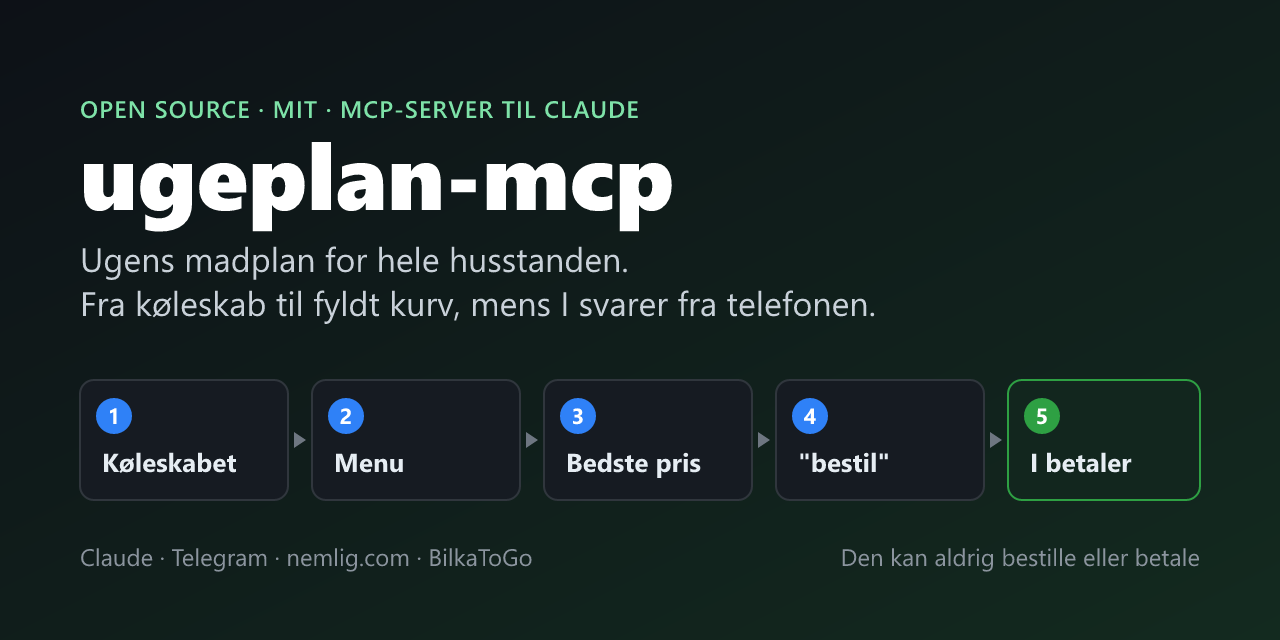
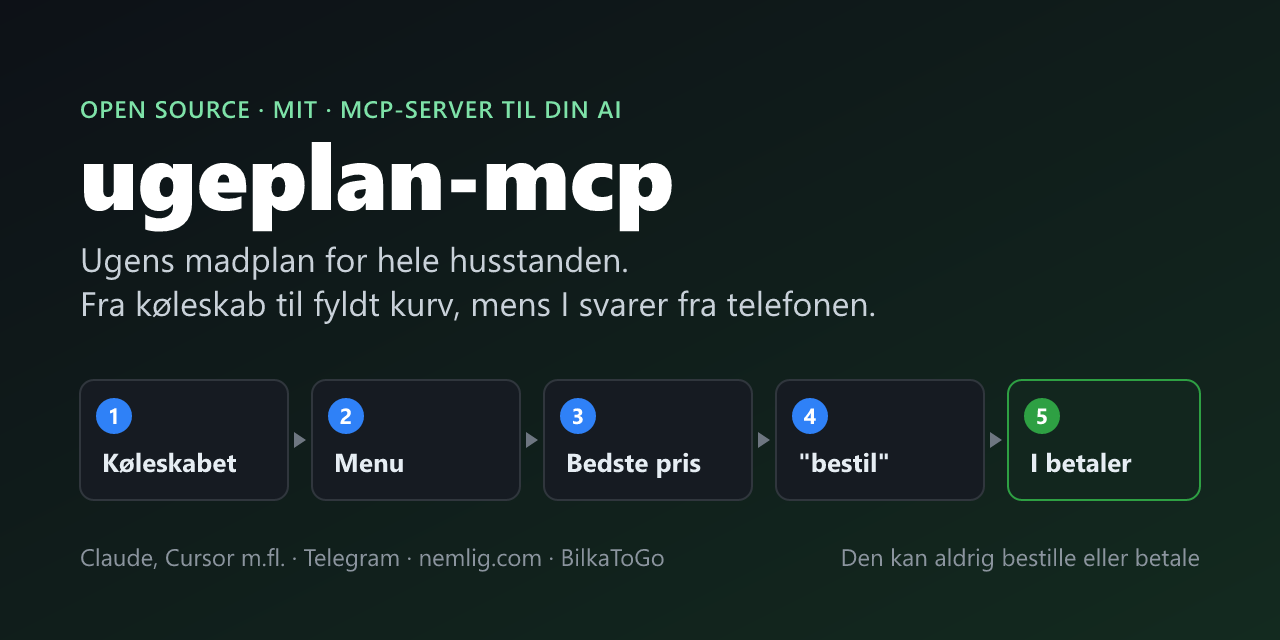
ugeplan-mcp 0.32.0: åben for alle AI-apps med MCP (#9)
* Åben for alle AI-apps med MCP, ikke kun Claude

* ugeplan-mcp 0.32.0

---------

Changed region(s): [[0.125, 0.8438, 0.5, 0.9062], [0.4062, 0.1562, 0.5, 0.1875]]

diff --git a/src/handle_mcp/cli.py b/src/handle_mcp/cli.py
@@ -1,6 +1,6 @@
 """Kommandoer i terminalen:
 
-    ugeplan-mcp opsaet          guide til første opsætning: butikker, Telegram og Claude Desktop
+    ugeplan-mcp opsaet          guide til første opsætning: butikker, Telegram og din AI-app
     ugeplan-mcp login nemlig   spørger om email og kode, tjekker dem hos butikken og gemmer dem
     ugeplan-mcp logout nemlig   sletter det gemte login
     ugeplan-mcp status          viser hvilke butikker der har et gemt login (aldrig selve koden)
@@ -10,7 +10,7 @@
     ugeplan-mcp telegram-frakobl kobler alle telefoner fra
     ugeplan-mcp http-noegle     laver en ny adgangsnøgle til HTTP-tilstand (vises kun én gang)
     ugeplan-mcp http [host] [port]
-                               kører serveren over HTTP i stedet for til Claude Desktop.
+                               kører serveren over HTTP i stedet for stdio.
                                Standard: 127.0.0.1 8765 (kun denne maskine)
 """
 
@@ -59,7 +59,7 @@ async def _telegram_opsaet(fra_udklipsholder: bool = False) -> int:
         print(f"Det virkede ikke, og intet er gemt: {fejl}")
         return 1
     kode = telegram.ny_parringskode()
-    print(f"\nBotten {navn} er gemt i Windows' nøglering.")
+    print(f"\nBotten {navn} er gemt i styresystemets nøglering.")
     print(f"3. Start lytteren: ugeplan-mcp telegram")
     print(f"4. Søg {navn} frem i Telegram på begge telefoner og send koden {kode} (gyldig i 30 minutter).")
     return 0
@@ -146,8 +146,8 @@ def _ja(spoergsmaal: str) -> bool:
         return False
 
 
-def claude_config() -> dict:
-    """Det, der skal stå i Claude Desktops claude_desktop_config.json."""
+def server_kommando() -> tuple[str, list[str]]:
+    """Kommandoen, en AI-app skal starte serveren med (MCP over stdio). Den samme for alle apps."""
     import shutil
     from importlib.metadata import PackageNotFoundError, version
 
@@ -156,19 +156,67 @@ def claude_config() -> dict:
     except PackageNotFoundError:
         v = None
     kilde = "git+https://github.com/JuliusTorpLarsenPrivat/ugeplan-mcp" + (f"@v{v}" if v else "")
-    uvx = shutil.which("uvx") or "uvx"
-    return {"mcpServers": {"ugeplan": {"command": uvx, "args": ["--from", kilde, "ugeplan-mcp"]}}}
+    return shutil.which("uvx") or "uvx", ["--from", kilde, "ugeplan-mcp"]
+
+
+def claude_config() -> dict:
+    """Det, der skal stå i Claude Desktops claude_desktop_config.json (samme form som Cursor m.fl.)."""
+    cmd, args = server_kommando()
+    return {"mcpServers": {"ugeplan": {"command": cmd, "args": args}}}
+
+
+# Serveren er almindelig MCP og er ikke bundet til én AI. Julius: "det skal være åbent".
+# Hver app har sin egen måde at få den ind på; teksten er den samme kommando i forskellig form.
+KLIENTER = {
+    "1": "Claude Desktop",
+    "2": "Claude Code",
+    "3": "Cursor",
+    "4": "VS Code (GitHub Copilot)",
+    "5": "En anden app med MCP",
+}
+
+
+def klient_vejledning(valg: str) -> str:
+    """Hvordan serveren sættes ind i den valgte AI-app."""
+    import json
+    import os
+    import shlex
+
+    cmd, args = server_kommando()
+    standard = json.dumps(claude_config(), indent=2, ensure_ascii=False)
+    if valg == "1":
+        sti = os.path.join(os.environ.get("APPDATA", "~"), "Claude", "claude_desktop_config.json")
+        return (
+            "I Claude Desktop: Settings > Developer > Edit Config. Læg dette ind under \"mcpServers\"\n"
+            f"(filen ligger normalt i {sti}):\n\n{standard}\n\n"
+            "Genstart Claude Desktop helt (også ikonet i proceslinjen)."
+        )
+    if valg == "2":
+        linje = "claude mcp add --scope user ugeplan -- " + " ".join(shlex.quote(a) for a in [cmd, *args])
+        return f"Kør i en terminal:\n\n  {linje}\n\nStart så en ny Claude Code-session."
+    if valg == "3":
+        return f"Læg dette i ~/.cursor/mcp.json (eller Cursor Settings > MCP > Add):\n\n{standard}\n\nGenstart Cursor."
+    if valg == "4":
+        vs = json.dumps({"servers": {"ugeplan": {"type": "stdio", "command": cmd, "args": args}}}, indent=2, ensure_ascii=False)
+        return (
+            "I VS Code: Kommandopaletten > \"MCP: Open User Configuration\", og læg dette ind:\n\n"
+            f"{vs}\n\nBrug Copilot Chat i Agent-tilstand."
+        )
+    return (
+        "Appen skal kunne starte en lokal MCP-server (stdio). Brug denne kommando:\n\n"
+        f"  kommando:   {cmd}\n  argumenter: {' '.join(args)}\n\n"
+        "Mange apps vil have den i denne form:\n\n"
+        f"{standard}\n\n"
+        "Kan appen kun forbinde til en server over nettet, så se \"Over netværket\" i README."
+    )
 
 
 def _opsaet() -> int:
     """Første opsætning, ét trin ad gangen. Alt kan springes over og tages senere."""
-    import json
-    import os
-
     print("Velkommen til ugeplan-mcp. Tre korte trin, og alle kan springes over med Enter.\n")
 
     print("TRIN 1/3: BUTIKKER")
-    print("Med login kan Claude fylde kurven (du betaler altid selv i butikkens app).")
+    print("Med login kan AI-assistenten fylde kurven (du betaler altid selv i butikkens app).")
     print("Uden login virker nemligs priser og opskrifter stadig, men kurven kan ikke fyldes.")
     for butik in login.BUTIKKER:
         if login.har_login(butik):
@@ -181,18 +229,22 @@ def _opsaet() -> int:
 
     print("\nTRIN 2/3: TELEGRAM (valgfrit)")
     print("Så kan hele husstanden svare fra telefonen: hvad der er i køleskabet, rettelser og \"bestil\".")
-    print("Uden Telegram foregår det hele i chatten med Claude.")
+    print("Uden Telegram foregår det hele i chatten med AI-assistenten.")
     if _ja("  Skal I bruge Telegram?"):
         asyncio.run(_telegram_opsaet())
 
-    print("\nTRIN 3/3: CLAUDE DESKTOP")
-    sti = os.path.join(os.environ.get("APPDATA", "~"), "Claude", "claude_desktop_config.json")
-    print("I Claude Desktop: Settings > Developer > Edit Config. Læg dette ind under \"mcpServers\"")
-    print(f"(filen ligger normalt i {sti}):\n")
-    print(json.dumps(claude_config(), indent=2, ensure_ascii=False))
-    print("\nGenstart Claude Desktop helt (også ikonet i proceslinjen).")
+    print("\nTRIN 3/3: DIN AI-APP")
+    print("ugeplan-mcp er en MCP-server og virker med de AI-apps, der kan bruge MCP. Hvilken bruger du?")
+    for nr, navn in KLIENTER.items():
+        print(f"  {nr}) {navn}")
+    try:
+        valg = input("Vælg 1-5 [5]: ").strip() or "5"
+    except EOFError:
+        print()
+        valg = "5"
+    print("\n" + klient_vejledning(valg))
 
-    print("\nKLAR. Skriv \"lav madplan\" i Claude. Første gang stiller Claude et par korte spørgsmål om")
+    print("\nKLAR. Skriv \"lav madplan\" til AI-assistenten. Første gang stiller den et par korte spørgsmål om")
     print("jeres husstand: antal, budget, hvad I kan lide og ikke spiser, faste måltider og")
     print("bestemte varer. Det bliver gemt i jeres profil, kun på denne computer.")
     print("Kør `ugeplan-mcp opsaet` igen, når som helst, eller `ugeplan-mcp status` for at se, hvad der er sat op.")

diff --git a/src/handle_mcp/telegram.py b/src/handle_mcp/telegram.py
@@ -312,7 +312,7 @@ async def _videresend(fra_chat: str, navn: str, tekst: str) -> None:
 
 
 BESTIL_VENTER = "bestil-venter"  # læses af madplan.gem_fra_vaerktoej, når den rettede plan gemmes
-BESTIL_EFTER_RETTELSE = "Modtaget. Claude retter planen efter jeres besked og lægger den så i kurven."
+BESTIL_EFTER_RETTELSE = "Modtaget. Assistenten retter planen efter jeres besked og lægger den så i kurven."
 
 
 def _rettelse_efter(oprettet: str) -> bool:
@@ -327,7 +327,7 @@ def ikke_fyldt_tekst(fejl: str) -> str:
     """Til husstanden: hvorfor kurven ikke blev fyldt, uden værktøjets instrukser til Claude
     (fundet i uge 46: "kald igen med kurven_maa_have_andet=True" stod på en telefon i husstanden)."""
     grund = re.split(r"\s+(?:Spørg brugeren|Kald igen|kald igen)", fejl, maxsplit=1)[0].strip()
-    videre = "Claude spørger jer om det her." if claude_lytter() else "Skriv fortsæt i Claude-chatten, så klarer Claude det."
+    videre = "Assistenten spørger jer om det her." if claude_lytter() else IKKE_I_GANG_FORTSAET
     return f"Kurven blev IKKE fyldt: {grund}\n{videre}"
 
 
@@ -381,11 +381,12 @@ async def _godkendelse(chat_id: str, navn: str, tekst: str) -> bool:
 
 
 CLAUDE_LYTTER_SEK = 2 * 60  # Claude kalder værktøjer hvert minut, mens den arbejder (5 min var for længe: fundet i demoen)
-IKKE_LYTTER = "Modtaget. Claude er ikke i gang lige nu. Skal det videre nu, så skriv fortsæt i Claude-chatten."
+IKKE_LYTTER = "Modtaget. AI-assistenten er ikke i gang lige nu. Skal det videre nu, så skriv fortsæt i chatten med den."
+IKKE_I_GANG_FORTSAET = "Skriv fortsæt i chatten med AI-assistenten, så klarer den det."
 
 
-ERSTATNING_LYTTER = "Claude finder en erstatning og retter kurven. Vent med at betale."
-ERSTATNING_IKKE_LYTTER = "Skriv fortsæt i Claude-chatten, så finder Claude en erstatning. Vent med at betale."
+ERSTATNING_LYTTER = "Assistenten finder en erstatning og retter kurven. Vent med at betale."
+ERSTATNING_IKKE_LYTTER = "Skriv fortsæt i chatten med AI-assistenten, så finder den en erstatning. Vent med at betale."
 
 
 def claude_lytter() -> bool:

diff --git a/tests/test_opsaetning.py b/tests/test_opsaetning.py
@@ -118,3 +118,25 @@ def test_opsaet_kan_springes_helt_over(monkeypatch, capsys):
 def test_claude_config_peger_paa_repoet():
     k = cli.claude_config()["mcpServers"]["ugeplan"]
     assert k["args"][0] == "--from" and "ugeplan-mcp" in k["args"][1] and k["args"][2] == "ugeplan-mcp"
+
+
+def test_guiden_er_ikke_bundet_til_claude(monkeypatch, capsys):
+    """Julius: "vi dikterer ikke, at der SKAL bruges Claude". Alle apps får samme kommando."""
+    cmd, args = cli.server_kommando()
+    for valg in cli.KLIENTER:
+        tekst = cli.klient_vejledning(valg)
+        assert args[1] in tekst, valg  # samme kilde (git+…@vX) i alle apps
+    assert "claude mcp add" in cli.klient_vejledning("2")
+    assert '"servers"' in cli.klient_vejledning("4") and '"type": "stdio"' in cli.klient_vejledning("4")
+    assert "Over netværket" in cli.klient_vejledning("5")
+    monkeypatch.setattr("builtins.input", lambda *_: "3")
+    cli.kommando(["opsaet"])
+    ud = capsys.readouterr().out
+    assert "Cursor" in ud and "Claude Desktop helt" not in ud and "TRIN 3/3: DIN AI-APP" in ud
+
+
+def test_telegram_taler_ikke_om_claude():
+    from handle_mcp import telegram
+
+    for t in (telegram.IKKE_LYTTER, telegram.IKKE_I_GANG_FORTSAET, telegram.ERSTATNING_LYTTER, telegram.ERSTATNING_IKKE_LYTTER, telegram.BESTIL_EFTER_RETTELSE):
+        assert "Claude" not in t

diff --git a/tests/test_uge46.py b/tests/test_uge46.py
@@ -46,7 +46,7 @@ def test_ikke_fyldt_viser_ikke_vaerktoejets_instrukser(monkeypatch):
     tekst = telegram.ikke_fyldt_tekst(fejl)
     assert "Zinfandel" in tekst and "kurven_maa_have_andet" not in tekst and "Spørg brugeren" not in tekst
     monkeypatch.setattr(telegram, "claude_lytter", lambda: False)
-    assert "fortsæt i Claude-chatten" in telegram.ikke_fyldt_tekst(fejl)
+    assert "fortsæt i chatten med AI-assistenten" in telegram.ikke_fyldt_tekst(fejl)
 
 
 def test_rester_er_ikke_planens_start():

diff --git a/src/handle_mcp/__init__.py b/src/handle_mcp/__init__.py
@@ -1,3 +1,3 @@
 """ugeplan-mcp: madplan og dagligvarer fra nemlig.com og BilkaToGo som MCP-server. Du betaler altid selv."""
 
-__version__ = "0.31.0"
+__version__ = "0.32.0"

diff --git a/README.md b/README.md
@@ -1,6 +1,6 @@
 # ugeplan-mcp
 
-**Ugens madplan for hele husstanden, direkte på telefonen. Claude laver planen, I retter den i Telegram, og kurven bliver fyldt hos nemlig.com eller BilkaToGo. I betaler selv.**
+**Ugens madplan for hele husstanden, direkte på telefonen. Din AI-assistent laver planen, I retter den i Telegram, og kurven bliver fyldt hos nemlig.com eller BilkaToGo. I betaler selv.**
 
 [![Tests](https://github.com/JuliusTorpLarsenPrivat/ugeplan-mcp/actions/workflows/ci.yml/badge.svg)](https://github.com/JuliusTorpLarsenPrivat/ugeplan-mcp/actions/workflows/ci.yml)
 [![MIT](https://img.shields.io/badge/licens-MIT-blue.svg)](LICENSE)
@@ -13,8 +13,8 @@
 
 ## Sådan ser en uge ud
 
-1. **Søndag:** I skriver "lav madplan" i Claude. Botten spørger på begge jeres telefoner: *"Hvad har I i køleskabet?"* I svarer, som det passer jer, også indtalt.
-2. **Menu:** Claude laver en menu ud fra jeres profil, det I har hjemme, ugens tilbud og jeres favoritretter, med et prisskøn mod ugens budget. I retter i Telegram ("ikke fisk tirsdag", "billigere").
+1. **Søndag:** I skriver "lav madplan" til jeres AI-assistent. Botten spørger på begge jeres telefoner: *"Hvad har I i køleskabet?"* I svarer, som det passer jer, også indtalt.
+2. **Menu:** Assistenten laver en menu ud fra jeres profil, det I har hjemme, ugens tilbud og jeres favoritretter, med et prisskøn mod ugens budget. I retter i Telegram ("ikke fisk tirsdag", "billigere").
 3. **Pris:** Hele listen prissættes i begge butikker, med levering, poser og minimumskøb. Den billigste vinder, eller begge, hvis det kan betale sig.
 4. **"bestil":** Kurven bliver fyldt med præcis de godkendte varer. Botten sender ugens menu med links til opskrifterne og fastgør den øverst i chatten. Den sender også den billigste leveringstid, der når første aftensmad, og hvornår I senest skal bestille.
 5. **I betaler** i butikkens app.
@@ -32,7 +32,7 @@ I kan se hinandens svar, og I behøver ikke vente på hinanden.
 
 ## Brug hele den eller kun dele af den
 
-Kun Claude Desktop er et krav. Resten vælger du til.
+Det eneste krav er en AI-app, der kan bruge MCP-servere (se *Virker med* nedenfor). Resten vælger du til.
 
 | Det har du | Det får du |
 |---|---|
@@ -46,29 +46,42 @@ Værktøjerne kan også bruges hver for sig uden ugeplanen, fx *"hvad koster den
 
 ## Kom i gang
 
-Du skal bruge [Claude Desktop](https://claude.ai/download), [uv](https://docs.astral.sh/uv/getting-started/installation/) og [Git](https://git-scm.com/downloads). Testet på Windows. Mac og Linux burde virke.
+Du skal bruge en AI-app med MCP (se *Virker med*), [uv](https://docs.astral.sh/uv/getting-started/installation/) og [Git](https://git-scm.com/downloads). Testet på Windows. Mac og Linux burde virke.
 
-**1. Kør guiden** i en terminal. Den tager dig gennem butikker, Telegram og Claude Desktop, ét trin ad gangen, og alt kan springes over:
+**1. Kør guiden** i en terminal. Den tager dig gennem butikker, Telegram og din AI-app, ét trin ad gangen, og alt kan springes over:
 
 ```powershell
-uvx --from git+https://github.com/JuliusTorpLarsenPrivat/ugeplan-mcp@v0.31.0 ugeplan-mcp opsaet
+uvx --from git+https://github.com/JuliusTorpLarsenPrivat/ugeplan-mcp@v0.32.0 ugeplan-mcp opsaet
 ```
 
-Login gemmes kun i styresystemets nøglering. Guiden slutter med den tekst, du skal sætte ind i Claude Desktop (Settings > Developer > Edit Config).
+Login gemmes kun i styresystemets nøglering. Til sidst vælger du din AI-app, og guiden viser præcis, hvad du skal sætte ind og hvor.
 
-**2. Genstart Claude Desktop helt**, også ikonet i proceslinjen.
+**2. Genstart AI-appen**, så den finder serveren.
 
-**3. Skriv "lav madplan" i Claude.** Første gang stiller Claude 4 korte runder spørgsmål om jeres husstand: hvor mange I er og budget, hvad I kan lide og ikke spiser, faste måltider og bestemte varer, og jeres favoritretter. Svarene gemmes i profilen, og bagefter kommer ugens plan.
+**3. Skriv "lav madplan" til assistenten.** Første gang stiller den 4 korte runder spørgsmål om jeres husstand: hvor mange I er og budget, hvad I kan lide og ikke spiser, faste måltider og bestemte varer, og jeres favoritretter. Svarene gemmes i profilen, og bagefter kommer ugens plan.
 
 Profilen kan rumme alt fra "kød altid økologisk" til "chokolade mindst 85 %". Du ændrer den ved bare at sige det, fx *"husk, vi ikke kan lide fennikel"*, eller ved at skrive *"gennemgå vores profil"*.
 
 Guiden kan køres igen når som helst. `ugeplan-mcp status` viser, hvad der er sat op.
 
+### Virker med
+
+ugeplan-mcp er en almindelig [MCP-server](https://modelcontextprotocol.io), så den er ikke bundet til én AI. Guiden har vejledning til:
+
+| App | Status |
+|---|---|
+| Claude Desktop | Brugt hver uge. Det er den, forløbet er finpudset med. |
+| Claude Code | Virker. Én kommando: `claude mcp add`. |
+| Cursor, VS Code (Copilot), Windsurf m.fl. | Bør virke: de starter lokale MCP-servere på samme måde. Ikke testet hver uge. |
+| Apps, der kun kan forbinde over nettet | Brug *Over netværket* nedenfor. Det kræver, at appen kan sende en adgangsnøgle. |
+
+Forløbet er en lang samtale med mange værktøjskald. Jo bedre modellen er til at følge instrukser og bruge værktøjer, jo bedre bliver planen. Prøver du en anden app, så fortæl gerne, hvordan det gik, i et issue.
+
 ## Værktøjer
 
 | Værktøj | Ændrer noget? | Hvad |
 |---|---|---|
-| `ugeplan_forloeb` | nej | Ugeplanens faste forløb, som Claude følger |
+| `ugeplan_forloeb` | nej | Ugeplanens faste forløb, som assistenten følger |
 | `soeg_varer` | nej | Pris, enhedspris, tilbud og lager. `billigst_foerst=True` gennemsøger flere hits og ugens tilbud |
 | `ugens_tilbud` | nej | Ugens tilbud i én butik |
 | `sammenlign_liste` | nej | Prissætter en liste i begge butikker med gebyrer og anbefaler den billigste løsning |
@@ -91,9 +104,9 @@ Guiden kan køres igen når som helst. `ugeplan-mcp status` viser, hvad der er s
 - Login og botnøgle ligger kun i styresystemets nøglering.
 - Profil, beholdning, opskrifter og planer er JSON-filer på din egen computer i `%LOCALAPPDATA%\handle-mcp\`. De sendes aldrig til butikkerne.
 - Alle kald går gennem `vagt.py`, som kun tillader butikkernes egne adresser og afviser alt, der ligner bestilling, betaling eller valg af levering.
-- Navn, adresse, telefon og e-mail fjernes fra svarene, før Claude ser dem.
-- Det, Claude ser, sendes til Anthropic som en del af samtalen.
-- Lås installationen til en version (`@v0.31.0`), så koden ikke ændrer sig uden din viden.
+- Navn, adresse, telefon og e-mail fjernes fra svarene, før AI'en ser dem.
+- Det, AI'en ser, sendes til den AI-udbyder, din app bruger (fx Anthropic, OpenAI eller GitHub), som en del af samtalen.
+- Lås installationen til en version (`@v0.32.0`), så koden ikke ændrer sig uden din viden.
 
 ## Begrænsninger
 
@@ -101,7 +114,7 @@ Guiden kan køres igen når som helst. `ugeplan-mcp status` viser, hvad der er s
 - Ikke tilknyttet nemlig.com, Salling Group eller Anthropic.
 - Kun hjemlevering, ikke afhentning.
 - BilkaToGo kræver login. nemlig kan søges uden, men kurven kræver login.
-- Telegram-botten svarer kun, mens Claude Desktop kører. Til en maskine, der altid er tændt, se *Over netværket* nedenfor.
+- Telegram-botten tager imod svar af sig selv, men planen bliver kun lavet videre, mens AI-appen kører og arbejder. Til en maskine, der altid er tændt, se *Over netværket* nedenfor.
 
 ## Over netværket (HTTP)
 
@@ -121,7 +134,7 @@ uv sync
 uv run pytest
 ```
 
-Ændringer i logikken bruges med det samme, uden genstart (`genindlaes.py`). Nye værktøjer og ændringer i `server.py` kræver en genstart af Claude Desktop. [LÆR.md](LÆR.md) gennemgår, hvordan det hænger sammen. Bidrag er velkomne: se [CONTRIBUTING.md](CONTRIBUTING.md).
+Ændringer i logikken bruges med det samme, uden genstart (`genindlaes.py`). Nye værktøjer og ændringer i `server.py` kræver en genstart af AI-appen. [LÆR.md](LÆR.md) gennemgår, hvordan det hænger sammen. Bidrag er velkomne: se [CONTRIBUTING.md](CONTRIBUTING.md).
 
 Python-pakken hedder internt stadig `handle_mcp`, og kommandoen `handle-mcp` virker stadig.
 

diff --git a/CHANGELOG.md b/CHANGELOG.md
@@ -1,5 +1,10 @@
 # Ændringer
 
+## 0.32.0 (10/11-2026)
+
+- **Åben for alle AI-apps med MCP.** Guiden spørger, hvilken app du bruger (Claude Desktop, Claude Code, Cursor, VS Code eller en anden), og viser præcis, hvad der skal sættes ind. README'en har en tabel over, hvad der virker.
+- Telegram-beskederne siger "AI-assistenten" i stedet for "Claude".
+
 ## 0.31.0 (10/11-2026)
 
 - Rettet: skabsvarer i beholdningen (fx kartofler, hvidløg, krydderier) blev regnet med uge efter uge, også når en ret havde brugt dem. Varer noteret før sidste fyldte kurv står nu under "Tjek, at I har", og "har X" gemmes, så de tæller igen.

diff --git a/CONTRIBUTING.md b/CONTRIBUTING.md
@@ -18,7 +18,7 @@ Tak, fordi du vil hjælpe. Fejl og ønsker skal i [Issues](https://github.com/Ju
 - **Kun butikkernes egne adresser.** Nye adresser skal tilføjes i `vagt.py`.
 - **Husstandens egne regler hører til i profilen,** ikke i koden.
 - **Nye moduler** skal med i `genindlaes.RAEKKEFOLGE`. Det tjekker en test.
-- Undgå at ændre `server.py`, når det kan undgås, for det kræver en genstart af Claude Desktop.
+- Undgå at ændre `server.py`, når det kan undgås, for det kræver en genstart af AI-appen.
 
 ## Sprog
 
